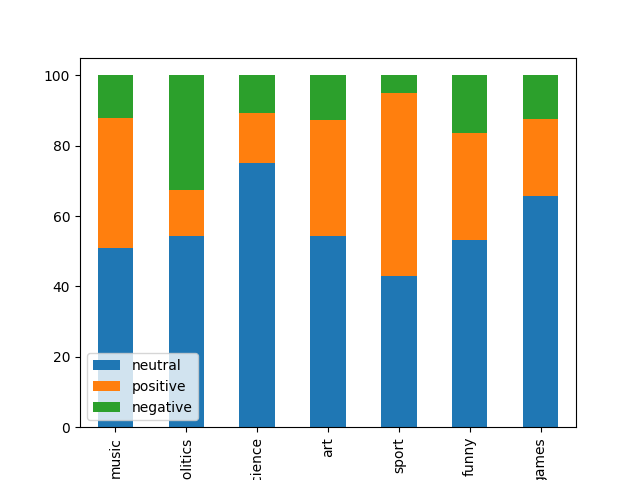
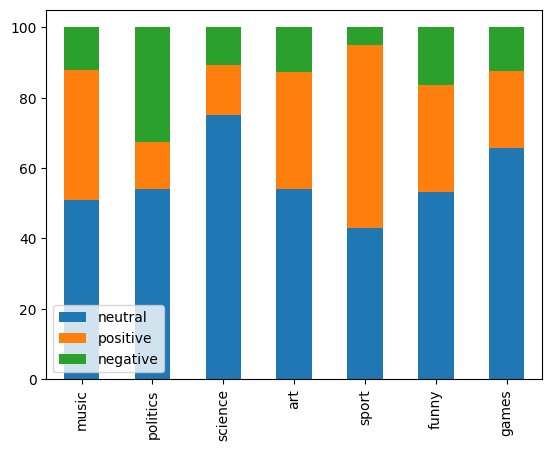
final things, conclusions

diff --git a/graphics.py b/graphics.py
@@ -1,8 +1,4 @@
-import matplotlib.pyplot as plt
-import numpy as np
 import pandas
-import pandas as pd
-import json
 
 
 def normalize(series):
@@ -14,6 +10,7 @@ data = pandas.read_json("sentiment_data.json")
 for col in data.columns:
     data[col] = normalize(data[col])
 
+
 for i in clusters:
     axes = data.plot.pie(y=i, autopct='%1.1f%%')
     fig = axes.get_figure()
@@ -22,6 +19,6 @@ for i in clusters:
 data = data.transpose()
 axes = data.plot.bar(stacked=True)
 fig = axes.get_figure()
-fig.savefig("charts/global_chart.png")
+fig.savefig("charts/global_chart.png", bbox_inches='tight')
 
-
+data.to_csv("normalized_final_data.csv")

diff --git a/README.md b/README.md
@@ -1,13 +1,26 @@
 # Проект за второй курс
 ##Женя Лепихина
 # Тональность комментариев YT-канала в зависимости от темы
-Что я делаю: скачиваю каналы по разным темам и смотрю, у каких из них самые позитивные или негативные комментарии.
+Что я делаю: скачиваю комментарии YouTube-каналов по разным темам и смотрю, у каких из них самые позитивные или негативные комментарии.
 
 
 Три этапа: всё скачать, определить тональность, проанализировать
 ## I. Всё скачать
-Все тематические кластеры и каналы в каждом перечислены в channels.json и channels_to_json.py (более человеко-читаемый вид). 
-get_all_comments.py запускает функции из claster_get.py по каждому из кластеров. Список скачанных ID видео, скачанные комментарии, и заметки об ошибках кладутся в папку data.
+Все тематические кластеры и каналы в каждом перечислены в channels.json и channels_to_json.py (более человеко-читаемый вид). Чтобы увидеть сами каналы, нужно вбивать id оттуда в ютьюб в формате "youtube.com/channel/{id}" (забыла предусмотреть нормальный список).
+get_all_comments.py запускает функции из claster_get.py по каждому из кластеров. Список скачанных ID видео, скачанные комментарии, и заметки об ошибках кладутся в папку data. Затем comments_count.py считает, сколько всего комментариев получилось, и я руками перенесла это в comments_count.txt.
+
 Чтобы запустить get_all_comments.py, вам нужно получить api-key тут: https://console.cloud.google.com/apis и положить его в файл secret.txt
 ## II. Определить тональность
 get_sentiments.py отвечает за то, что мы пробегаемся по всем файлам типа comments_{cluster_name}.txt из data и смотрим все тональности. Они идут в файл sentiment_data.json.
+## III. Проанализировать
+Файл graphics.py строит несколько диаграмм и кладёт их в charts. (Самая информативная это global_chart.png). Ещё он делает файл normilized_final_data.csv (табличка с долей положительных/нейтральных/отрицательных комментов), и эта табличка ещё в table.png (добавлена руками).
+Выводы находятся в conclusion.txt.
+
+
+Описание остальных файлов:
+
+ideas.txt - то, куда я набрасывала идеи в начале работы
+
+libraries - список нужных библиотек
+
+файлы, начинающиеся на test - не делают ничего в итоговой работе, просто в них я разбиралась, как работают соответствующие вещи.
